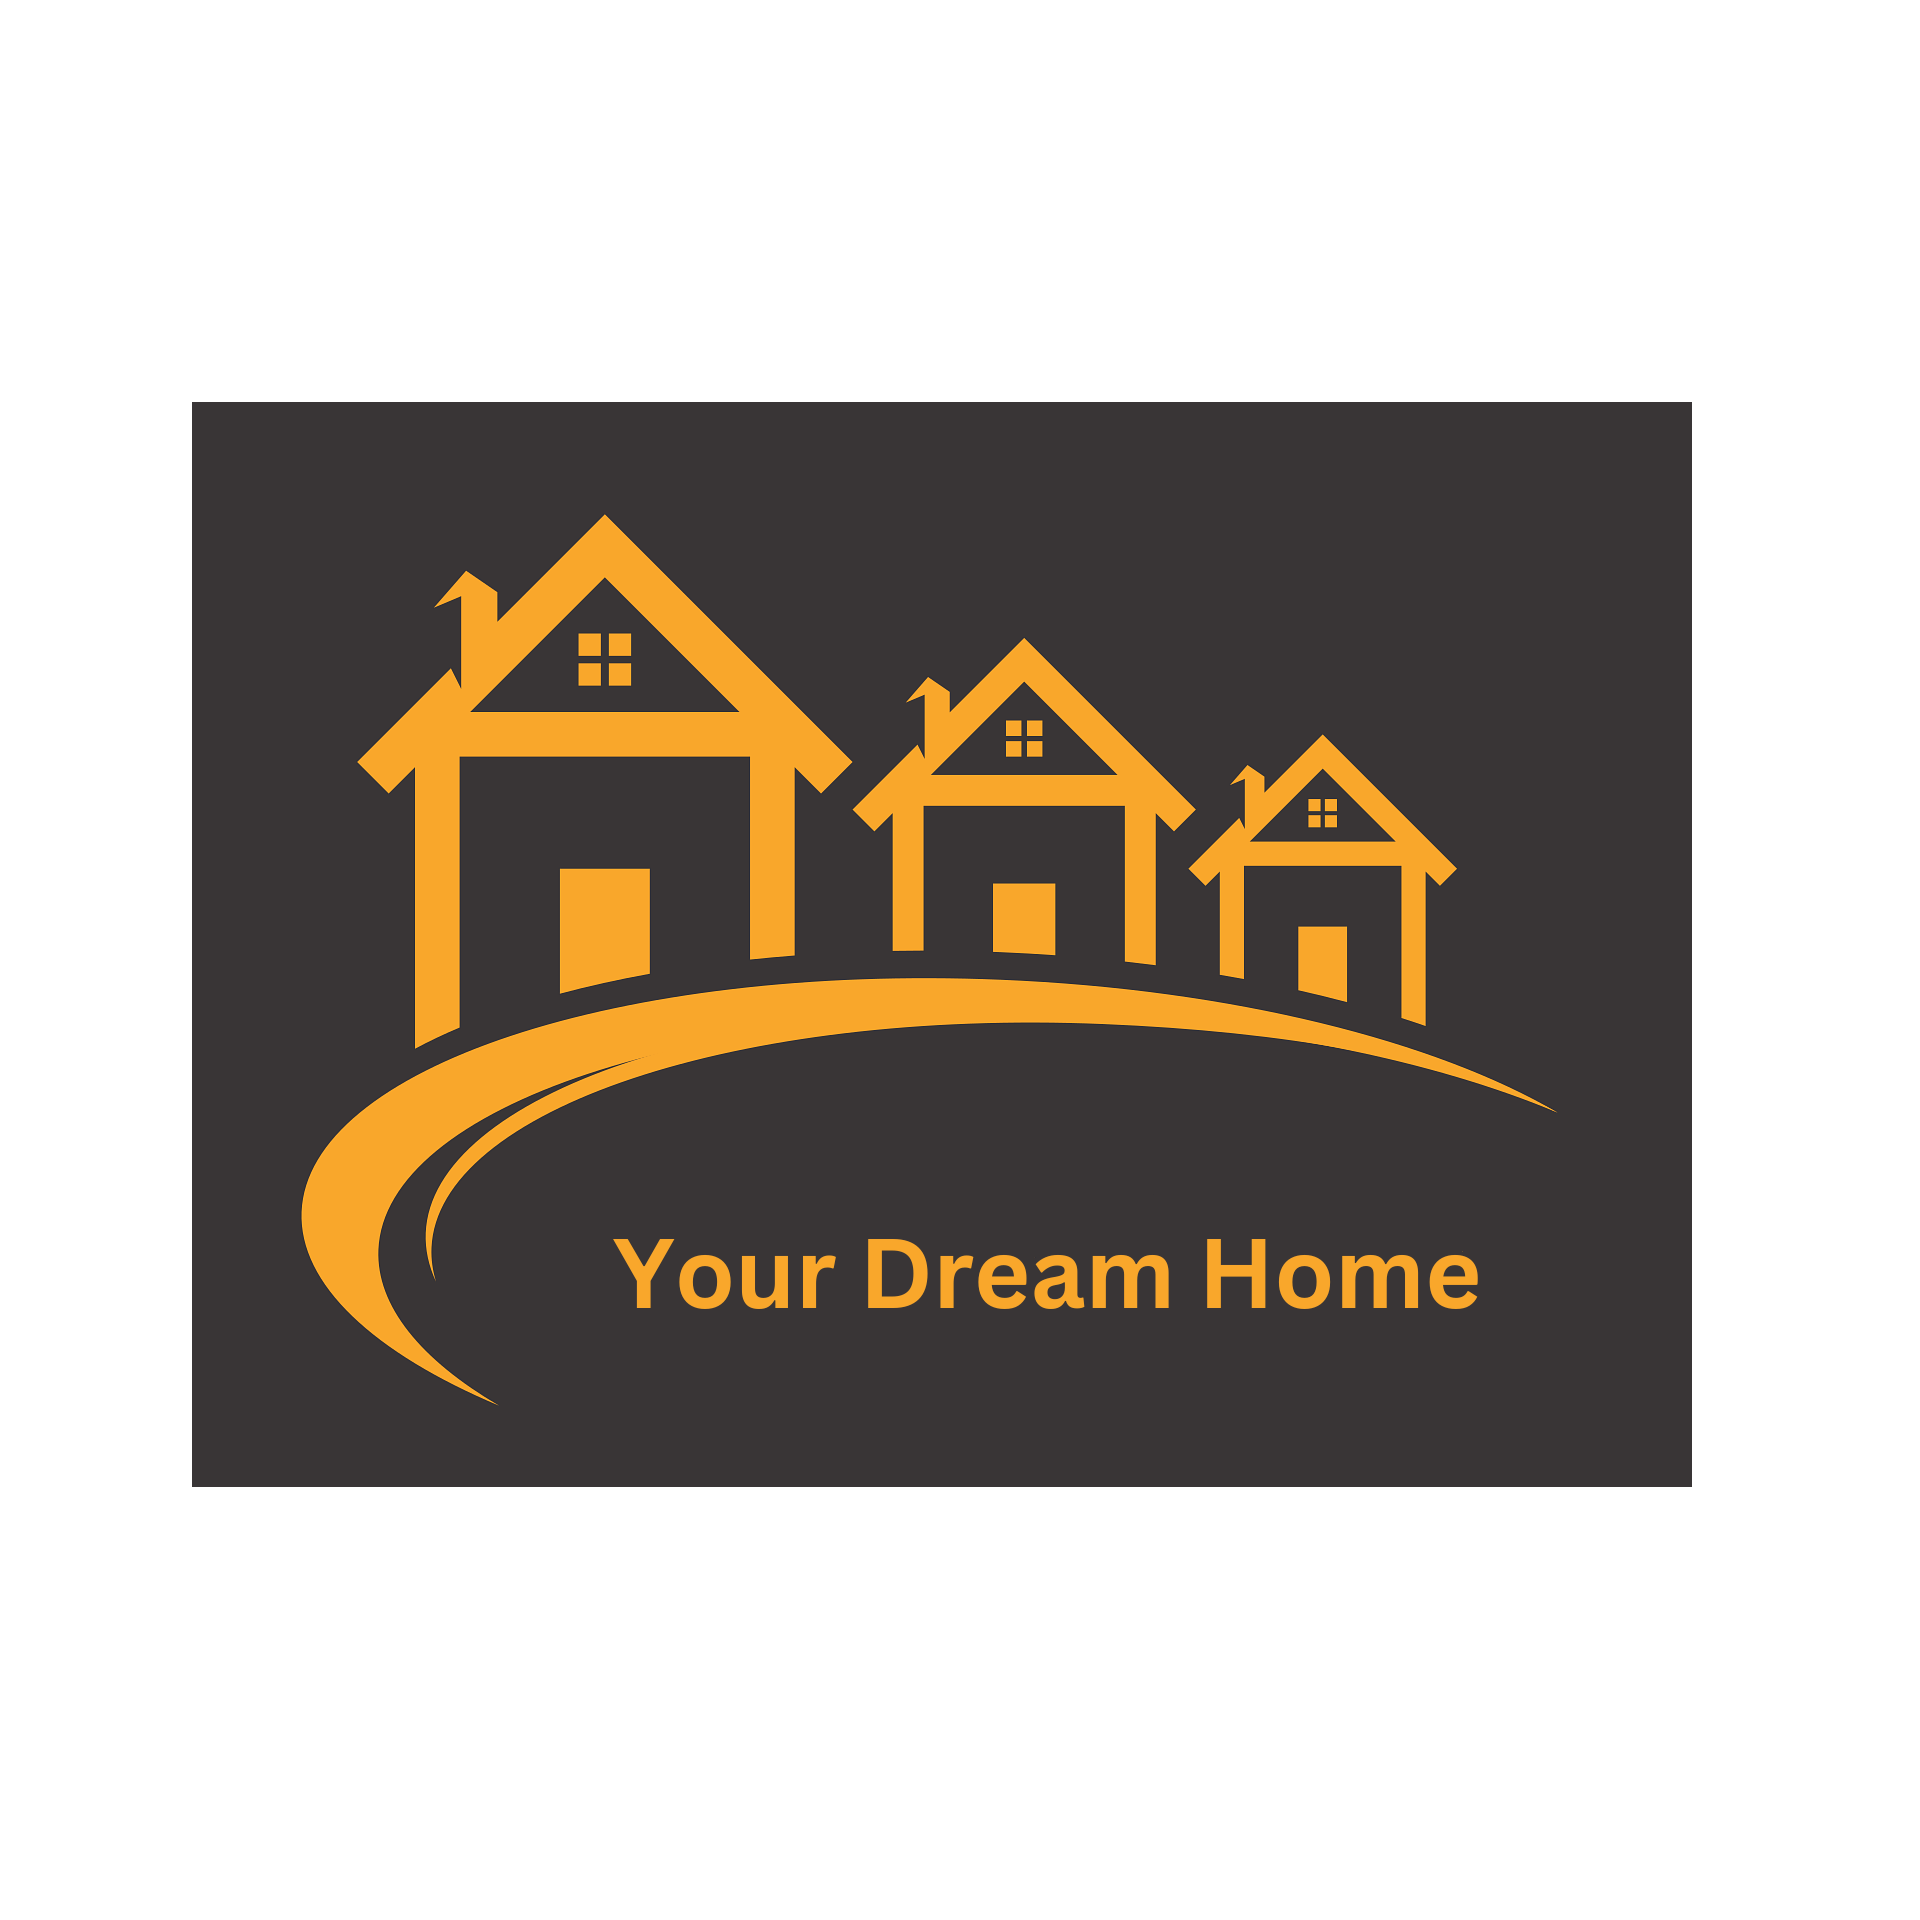
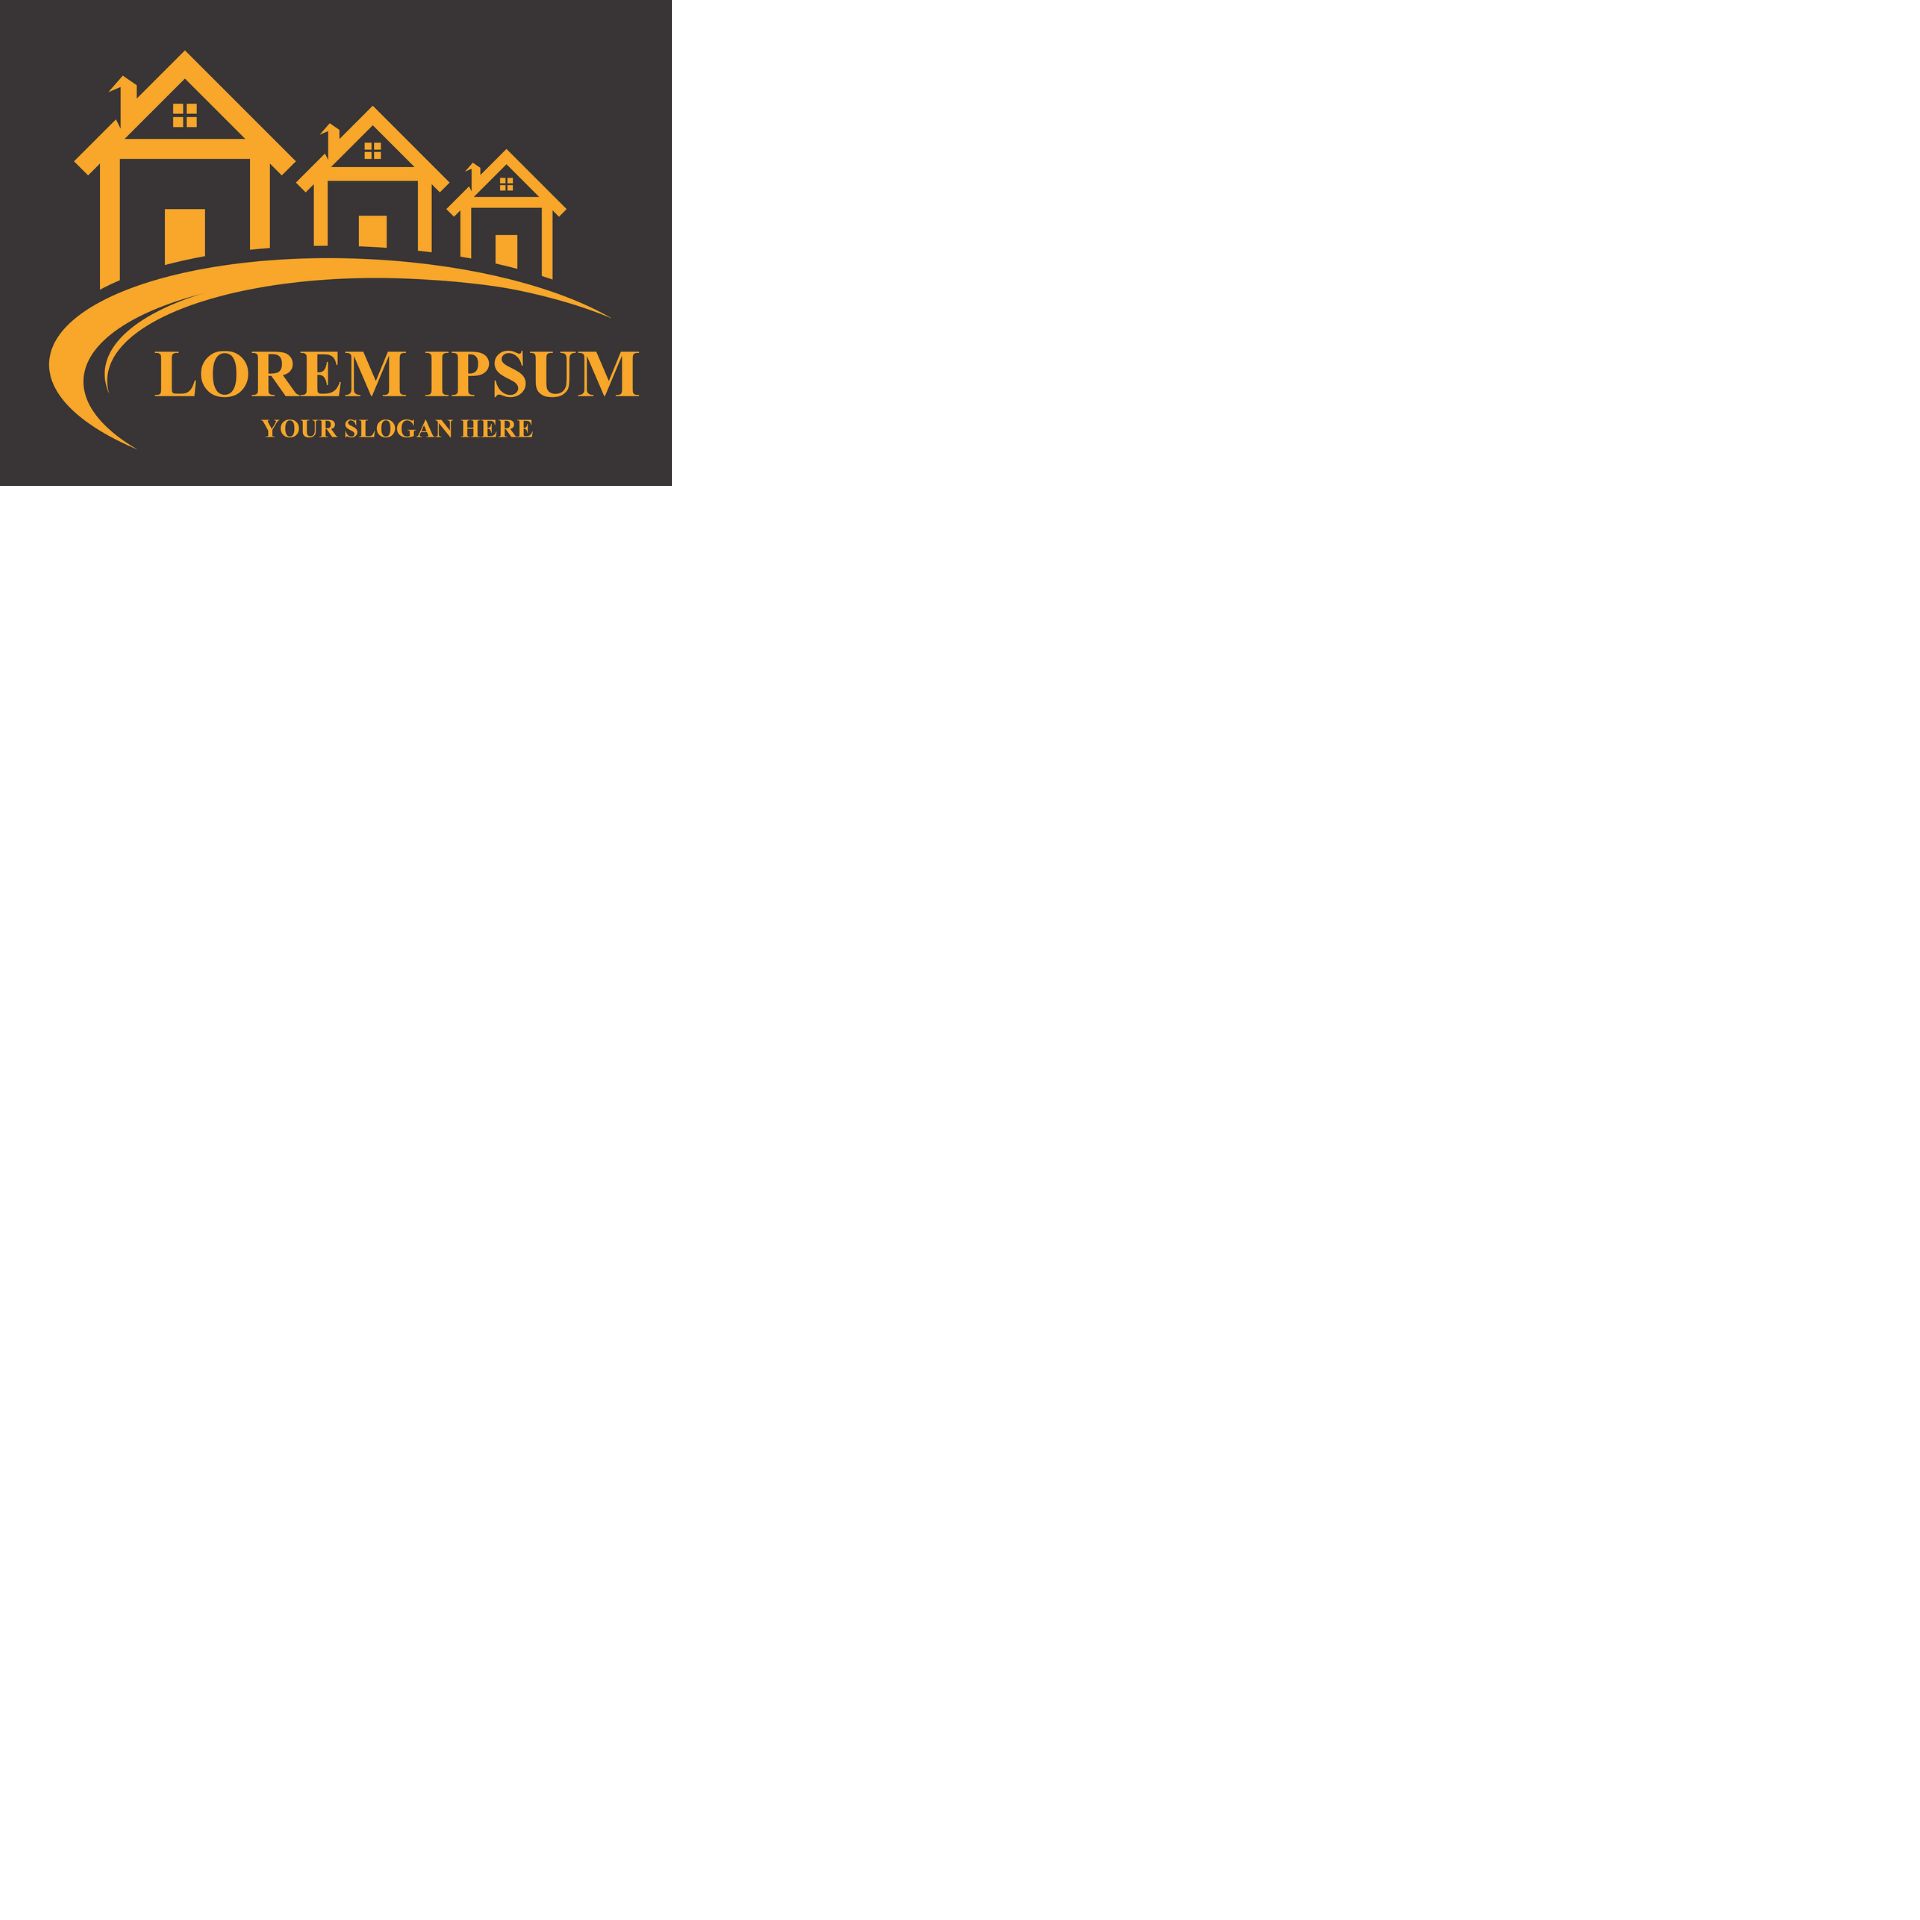
added images and css files

diff --git a/src/app/home/home.component.ts b/src/app/home/home.component.ts
@@ -1,10 +1,12 @@
 import { Component } from '@angular/core';
+import { CommonModule } from '@angular/common';
 import { HousingLocationComponent } from '../housing-location/housing-location.component'
+import { HousingLocation } from '../housing-location';
 
 @Component({
   selector: 'app-home',
   standalone: true,
-  imports: [HousingLocationComponent],
+  imports: [HousingLocationComponent,CommonModule],
   template: `
     <section>
       <form>
@@ -13,11 +15,113 @@ import { HousingLocationComponent } from '../housing-location/housing-location.c
       </form>
     </section>
     <section class=results>
-      <app-housing-location></app-housing-location>
+      <app-housing-location *ngFor="let housingLocation 
+      of housingLocationList" [housingLocation]="housingLocation"></app-housing-location>
     </section>
   `,
   styleUrl: './home.component.css'
 })
 export class HomeComponent {
-
+  housingLocationList: HousingLocation[] = [
+    {
+      id: 0,
+      name: 'Acme Fresh Start Housing',
+      city: 'Chicago',
+      state: 'IL',
+      photo: '/assets/home1.jpg',
+      availableUnits: 4,
+      wifi: true,
+      laundry: true
+    },
+    {
+      id: 1,
+      name: 'A113 Transitional Housing',
+      city: 'Santa Monica',
+      state: 'CA',
+      photo: '/assets/home2.jpg',
+      availableUnits: 0,
+      wifi: false,
+      laundry: true
+    },
+    {
+      id: 2,
+      name: 'Warm Beds Housing Support',
+      city: 'Juneau',
+      state: 'AK',
+      photo: '/assets/home3.jpg',
+      availableUnits: 1,
+      wifi: false,
+      laundry: false
+    },
+    {
+      id: 3,
+      name: 'Homesteady Housing',
+      city: 'Chicago',
+      state: 'IL',
+      photo: '/assets/home4.jpg',
+      availableUnits: 1,
+      wifi: true,
+      laundry: false
+    },
+    {
+      id: 4,
+      name: 'Happy Homes Group',
+      city: 'Gary',
+      state: 'IN',
+      photo: '/assets/home5.jpg',
+      availableUnits: 1,
+      wifi: true,
+      laundry: false
+    },
+    {
+      id: 5,
+      name: 'Hopeful Apartment Group',
+      city: 'Oakland',
+      state: 'CA',
+      photo: '/assets/home6.jpg',
+      availableUnits: 2,
+      wifi: true,
+      laundry: true
+    },
+    {
+      id: 6,
+      name: 'Seriously Safe Towns',
+      city: 'Oakland',
+      state: 'CA',
+      photo: '/assets/home7.jpg',
+      availableUnits: 5,
+      wifi: true,
+      laundry: true
+    },
+    {
+      id: 7,
+      name: 'Hopeful Housing Solutions',
+      city: 'Oakland',
+      state: 'CA',
+      photo: '/assets/home8.jpg',
+      availableUnits: 2,
+      wifi: true,
+      laundry: true
+    },
+    {
+      id: 8,
+      name: 'Seriously Safe Towns',
+      city: 'Oakland',
+      state: 'CA',
+      photo: '/assets/home9.jpg',
+      availableUnits: 10,
+      wifi: false,
+      laundry: false
+    },
+    {
+      id: 9,
+      name: 'Capital Safe Towns',
+      city: 'Portland',
+      state: 'OR',
+      photo: '/assets/home10.jpg',
+      availableUnits: 6,
+      wifi: true,
+      laundry: true
+    }
+  ];
 }

diff --git a/src/app/details/details.component.css b/src/app/details/details.component.css
@@ -1,0 +1,72 @@
+
+.listing-photo {
+    height: 600px;
+    width: 50%;
+    object-fit: cover;
+    border-radius: 30px;
+    float: right;
+  }
+  
+  .listing-heading {
+    font-size: 48pt;
+    font-weight: bold;
+    margin-bottom: 15px;
+  }
+  
+  .listing-location::before {
+    content: url('/assets/location-pin.svg') / '';
+  }
+  
+  .listing-location {
+    font-size: 24pt;
+    margin-bottom: 15px;
+  }
+  
+  .listing-features > .section-heading {
+    color: var(--secondary-color);
+    font-size: 24pt;
+    margin-bottom: 15px;
+  }
+  
+  .listing-features {
+    margin-bottom: 20px;
+  }
+  
+  .listing-features li {
+    font-size: 14pt;
+  }
+  
+  li {
+    list-style-type: none;
+  }
+  
+  .listing-apply .section-heading {
+    font-size: 18pt;
+    margin-bottom: 15px;
+  }
+  
+  label, input {
+    display: block;
+  }
+  label {
+    color: var(--secondary-color);
+    font-weight: bold;
+    text-transform: uppercase;
+    font-size: 12pt;
+  }
+  input {
+    font-size: 16pt;
+    margin-bottom: 15px;
+    padding: 10px;
+    width: 400px;
+    border-top: none;
+    border-right: none;
+    border-left: none;
+    border-bottom: solid .3px;
+  }
+  @media (max-width: 1024px) {
+    .listing-photo {
+      width: 100%;
+      height: 400px;
+    }
+  }

diff --git a/src/app/home/home.component.css b/src/app/home/home.component.css
@@ -1,0 +1,40 @@
+.results {
+    display: grid;
+    column-gap: 24px;
+    row-gap: 24px;
+    grid-template-columns: repeat(auto-fill, minmax(300px, 300px));
+    margin-top: 50px;
+    justify-content: space-around;
+  }
+  
+  input[type="text"] {
+    border: solid 1px var(--primary-color);
+    padding: 10px;
+    border-radius: 8px;
+    margin-right: 4px;
+    display: inline-block;
+    width: 20%;
+  }
+  
+  button {
+    padding: 10px;
+    border: solid 1px var(--primary-color);
+    background: var(--primary-color);
+    color: white;
+    border-radius: 8px;
+  }
+  
+  @media (min-width: 500px) and (max-width: 768px) {
+    .results {
+        grid-template-columns: repeat(2, 1fr);
+    }
+    input[type="text"] {
+        width: 70%;
+    }   
+  }
+  
+  @media (max-width: 499px) {
+    .results {
+        grid-template-columns: 1fr;
+    }    
+  }

diff --git a/src/app/housing-location/housing-location.component.css b/src/app/housing-location/housing-location.component.css
@@ -1,0 +1,31 @@
+.listing {
+    background: var(--accent-color);
+    border-radius: 30px;
+    padding-bottom: 30px;
+  }
+  .listing-heading {
+    color: var(--primary-color);
+    padding: 10px 20px 0 20px;
+  }
+  .listing-photo {
+    height: 250px;
+    width: 100%;
+    object-fit: cover;
+    border-radius: 30px 30px 0 0;
+  }
+  .listing-location {
+    padding: 10px 20px 20px 20px;
+  }
+  .listing-location::before {
+    content: url("/assets/location-pin.svg") / "";
+  }
+  
+  section.listing a {
+    padding-left: 20px;
+    text-decoration: none;
+    color: var(--primary-color);
+  }
+  section.listing a::after {
+    content: "\203A";
+    margin-left: 5px;
+  }

diff --git a/src/styles.css b/src/styles.css
@@ -1,1 +1,24 @@
 /* You can add global styles to this file, and also import other style files */
+
+* {
+    margin: 0;
+    padding: 0;
+  }
+  
+  body {
+    font-family: 'Be Vietnam Pro', sans-serif;
+  }
+  :root {
+    --primary-color: #605DC8;
+    --secondary-color: #8B89E6;
+    --accent-color: #e8e7fa;
+    --shadow-color: #E8E8E8;
+  }
+  
+  button.primary {
+    padding: 10px;
+    border: solid 1px var(--primary-color);
+    background: var(--primary-color);
+    color: white;
+    border-radius: 8px;
+  }

diff --git a/src/app/housing-location/housing-location.component.html b/src/app/housing-location/housing-location.component.html
@@ -1,5 +1,7 @@
 <section class="listing">
-    <img class="listing-photo">
-    <h2 class="listing-heading"></h2>
-    <p class="listing-location"></p>
+    <img class="listing-photo" [src]="housingLocation.photo" 
+    alt="Exterior photo of {{housingLocation.name}}">
+    <h2 class="listing-heading">{{ housingLocation.name }}</h2>
+    <p class="listing-location">{{ housingLocation.city }}, 
+        {{ housingLocation.state }}</p>
 </section>

diff --git a/src/app/housing-location/housing-location.component.ts b/src/app/housing-location/housing-location.component.ts
@@ -1,4 +1,5 @@
-import { Component } from '@angular/core';
+import { Component, Input } from '@angular/core';
+import { HousingLocation } from '../housing-location';
 
 @Component({
   selector: 'app-housing-location',
@@ -8,5 +9,5 @@ import { Component } from '@angular/core';
   styleUrl: './housing-location.component.css'
 })
 export class HousingLocationComponent {
-
+  @Input() housingLocation!:HousingLocation;
 }

diff --git a/src/app/app.component.ts b/src/app/app.component.ts
@@ -2,7 +2,7 @@ import { Component } from '@angular/core';
 import { CommonModule } from '@angular/common';
 import { RouterOutlet } from '@angular/router';
 import { HomeComponent } from './home/home.component';
-import 'node_modules/bootstrap/dist/css/bootstrap-grid.min.css';
+
 
 @Component({
   selector: 'app-root',

diff --git a/src/app/app.component.css b/src/app/app.component.css
@@ -1,0 +1,13 @@
+:host {
+    --content-padding: 10px;
+  }
+  header {
+    display: block;
+    height: 215px;
+    padding: var(--content-padding);
+    box-shadow: 0px 5px 25px var(--shadow-color);
+  }
+  .content {
+    padding: var(--content-padding);
+  }
+

diff --git a/src/app/app.component.html b/src/app/app.component.html
@@ -1,6 +1,6 @@
 <main>
   <header class="brand-name">
-    <img class="brand-logo" src="/assets/photo3.jpg" 
+    <img class="brand-logo" src="/assets/Home1.png" 
     alt="logo" aria-hidden="true">
   </header>
   <section class="content">

diff --git a/src/app/housing-location.ts b/src/app/housing-location.ts
@@ -1,0 +1,10 @@
+export interface HousingLocation {
+    id: number,
+    name: string,
+    city: string,
+    state: string,
+    photo: string,
+    availableUnits: number,
+    wifi: boolean,
+    laundry: boolean,
+}
